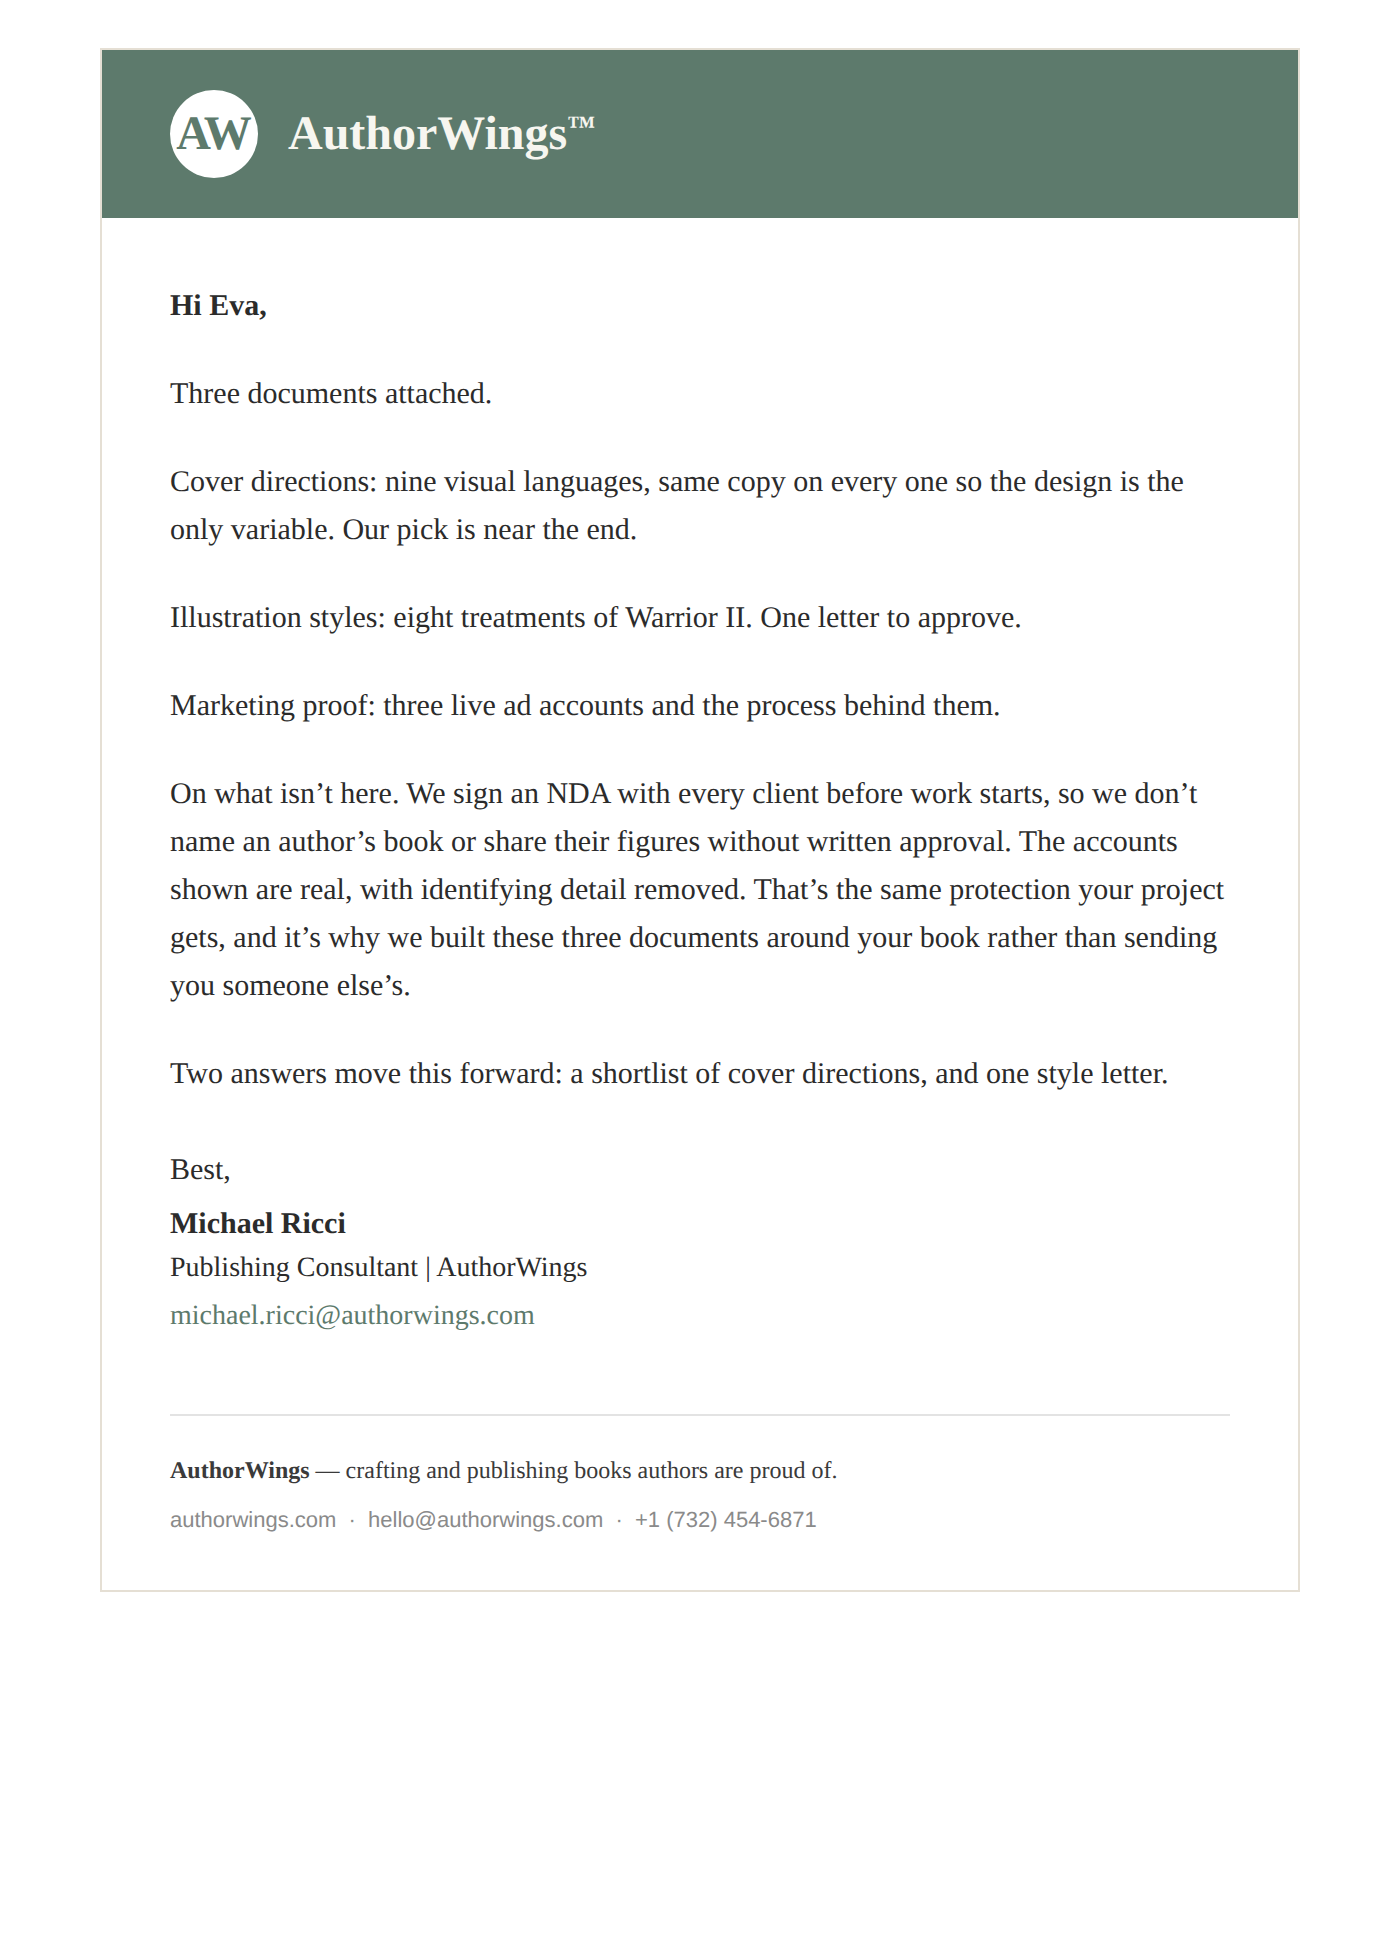
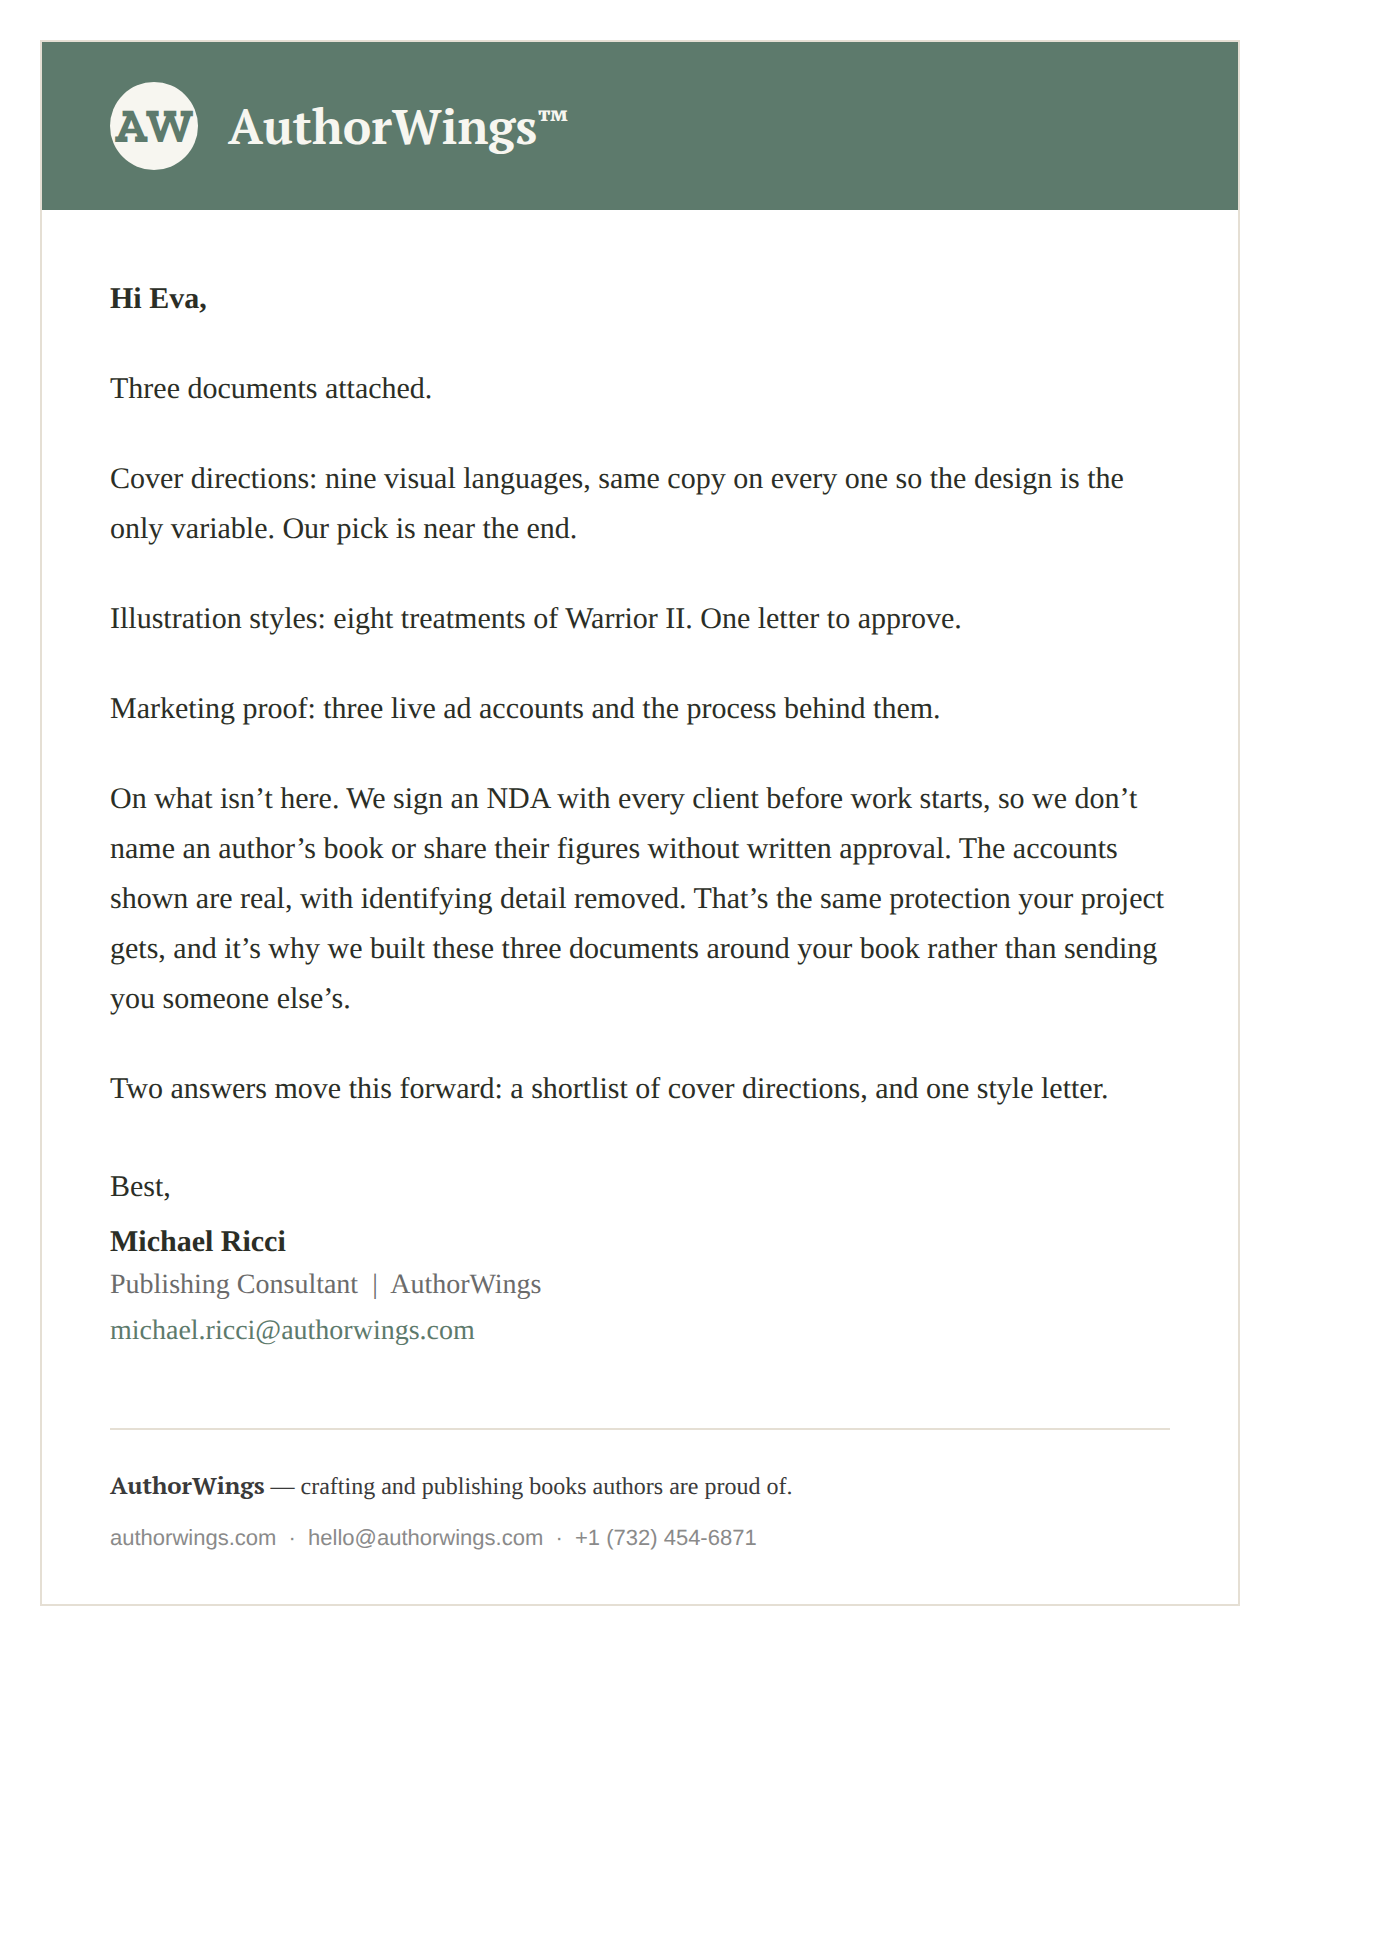
Rebuild the paste-ready block on the templates' header
Takes the header markup from the template set verbatim, so the lockup is
the same in a hand-sent email as in an automated one, and carries the two
subset logo faces in a leading style block that can be dropped without
breaking the layout. Body and footer stay fully inline.

diff --git a/email/authorwings-email-inline.html b/email/authorwings-email-inline.html
@@ -1,111 +1,104 @@
-<!-- Cream page background. Change #FFFFFF in the two places below to restyle it. -->
-<table role="presentation" width="100%" cellpadding="0" cellspacing="0" border="0" bgcolor="#FFFFFF" style="background-color:#FFFFFF; border-collapse:collapse;">
-  <tr>
-    <td align="center" style="padding:24px 12px;">
+<!-- ===========================================================================
+     AuthorWings email - paste-ready block
+     Header markup is identical to the templates in email/templates/.
+     Every visual style is inline, so the layout survives a composer that
+     strips <style>. The block below carries only the two logo faces; drop it
+     and the mark falls back to Rockwell, then Georgia.
+     =========================================================================== -->
+<style type="text/css">
+  /* Zilla Slab Bold and PT Serif Bold, subset to just the logo's letters and
+     embedded here, so the mark renders correctly with no network call. */
+  @font-face {
+    font-family: 'AW Slab';
+    font-style: normal;
+    font-weight: 700;
[1 lines of base64/hex data omitted]
+  }
+  @font-face {
+    font-family: 'AW Serif';
+    font-style: normal;
+    font-weight: 700;
[1 lines of base64/hex data omitted]
+  }
 
-<table role="presentation" width="600" cellpadding="0" cellspacing="0" border="0" style="width:600px; max-width:600px; background-color:#FFFFFF; border:1px solid #E5DFD4; border-collapse:collapse;">
+  /* Every visual style is also inline below, so the email survives clients
+     that strip this block. What lives here is only what cannot be inlined:
+     the logo faces above and the mobile rules underneath. */
+</style>
 
-  <!-- ===================== HEADER ===================== -->
-  <tr>
-    <td align="left" bgcolor="#5D7A6C" style="background-color:#5D7A6C; padding:20px 34px;">
-      <table role="presentation" cellpadding="0" cellspacing="0" border="0" style="border-collapse:collapse;">
-        <tr>
-          <td align="center" valign="middle" width="44" height="44" bgcolor="#FFFFFF"
-              style="width:44px; height:44px; background-color:#FFFFFF;
-                     border-radius:22px; -webkit-border-radius:22px; -moz-border-radius:22px;
-                     text-align:center; vertical-align:middle;
-                     font-family:'Zilla Slab', Rockwell, Georgia, serif;
-                     font-size:24px; font-weight:700; line-height:44px;
-                     color:#5D7A6C; letter-spacing:-0.8px; text-indent:-0.8px;
-                     mso-line-height-rule:exactly;">AW</td>
-          <td width="15" style="width:15px; min-width:15px; font-size:1px; line-height:1px;">&#8203;</td>
-          <td valign="middle" style="vertical-align:middle;">
-            <span style="font-family:'PT Serif', 'Noto Serif', Georgia, 'Times New Roman', serif;
-                         font-size:24px; font-weight:700; line-height:30px; color:#F7F6F0;
-                         mso-line-height-rule:exactly; white-space:nowrap;">AuthorWings<span style="font-size:14px; line-height:1; vertical-align:7px; mso-text-raise:7px;">&trade;</span></span>
-          </td>
-        </tr>
-      </table>
-    </td>
-  </tr>
+<table role="presentation" width="600" cellpadding="0" cellspacing="0" border="0"
+       style="width:600px; max-width:600px; background-color:#FFFFFF; border:1px solid #E5DFD4; border-collapse:collapse;">
 
-  <!-- ====================== BODY ====================== -->
-  <tr>
-    <td align="left" style="padding:32px 34px 8px 34px; font-family:Georgia,'Times New Roman',Times,serif; font-size:15px; line-height:24px; color:#2B2B2B; mso-line-height-rule:exactly;">
+    <!-- HEADER - lockup ratios measured from the AuthorWings logo file -->
+    <tr>
+      <td class="aw-pad" align="left" bgcolor="#5D7A6C" style="background-color:#5D7A6C; padding:20px 34px;">
+        <table role="presentation" cellpadding="0" cellspacing="0" border="0" style="border-collapse:collapse;">
+          <tr>
+            <td class="aw-mark" align="center" valign="middle" width="44" height="44" bgcolor="#F7F6F0"
+                style="width:44px; height:44px; background-color:#F7F6F0;
+                       border-radius:22px; -webkit-border-radius:22px; -moz-border-radius:22px;
+                       text-align:center; vertical-align:middle;
+                       font-family:'AW Slab', 'Zilla Slab', Rockwell, Georgia, serif;
+                       font-size:24px; font-weight:700; line-height:44px;
+                       color:#5D7A6C; letter-spacing:-0.8px; text-indent:-0.8px;
+                       mso-line-height-rule:exactly;">AW</td>
+            <td width="15" style="width:15px; min-width:15px; font-size:1px; line-height:1px;">&#8203;</td>
+            <td class="aw-word" valign="middle" style="vertical-align:middle;">
+              <span style="font-family:'AW Serif', 'PT Serif', Georgia, serif;
+                           font-size:24px; font-weight:700; line-height:30px; color:#F7F6F0;
+                           mso-line-height-rule:exactly; white-space:nowrap;">AuthorWings<span style="font-size:14px; line-height:1; vertical-align:7px; mso-text-raise:7px;">&trade;</span></span>
+            </td>
+          </tr>
+        </table>
+      </td>
+    </tr>
 
-      <p style="margin:0 0 20px 0; font-family:Georgia,'Times New Roman',Times,serif; font-size:15px; line-height:24px; color:#2B2B2B; font-weight:bold;">
-        Hi Eva,
-      </p>
+    <!-- ============================== BODY ============================== -->
+    <tr>
+      <td align="left" style="padding:32px 34px 8px 34px; font-family:Georgia,'Times New Roman',Times,serif; font-size:15px; line-height:25px; color:#2B2E26; mso-line-height-rule:exactly;">
 
-      <p style="margin:0 0 20px 0; font-family:Georgia,'Times New Roman',Times,serif; font-size:15px; line-height:24px; color:#2B2B2B;">
-        Three documents attached.
-      </p>
+        <p style="margin:0 0 20px 0; font-family:Georgia,'Times New Roman',Times,serif; font-size:15px; line-height:25px; color:#2B2E26; font-weight:bold;">Hi Eva,</p>
 
-      <p style="margin:0 0 20px 0; font-family:Georgia,'Times New Roman',Times,serif; font-size:15px; line-height:24px; color:#2B2B2B;">
-        Cover directions: nine visual languages, same copy on every one so the design is the only variable. Our pick is near the end.
-      </p>
+        <p style="margin:0 0 20px 0; font-family:Georgia,'Times New Roman',Times,serif; font-size:15px; line-height:25px; color:#2B2E26; mso-line-height-rule:exactly;">Three documents attached.</p>
+        <p style="margin:0 0 20px 0; font-family:Georgia,'Times New Roman',Times,serif; font-size:15px; line-height:25px; color:#2B2E26; mso-line-height-rule:exactly;">Cover directions: nine visual languages, same copy on every one so the design is the only variable. Our pick is near the end.</p>
+        <p style="margin:0 0 20px 0; font-family:Georgia,'Times New Roman',Times,serif; font-size:15px; line-height:25px; color:#2B2E26; mso-line-height-rule:exactly;">Illustration styles: eight treatments of Warrior II. One letter to approve.</p>
+        <p style="margin:0 0 20px 0; font-family:Georgia,'Times New Roman',Times,serif; font-size:15px; line-height:25px; color:#2B2E26; mso-line-height-rule:exactly;">Marketing proof: three live ad accounts and the process behind them.</p>
+        <p style="margin:0 0 20px 0; font-family:Georgia,'Times New Roman',Times,serif; font-size:15px; line-height:25px; color:#2B2E26; mso-line-height-rule:exactly;">On what isn&rsquo;t here. We sign an NDA with every client before work starts, so we don&rsquo;t name an author&rsquo;s book or share their figures without written approval. The accounts shown are real, with identifying detail removed. That&rsquo;s the same protection your project gets, and it&rsquo;s why we built these three documents around your book rather than sending you someone else&rsquo;s.</p>
+        <p style="margin:0 0 24px 0; font-family:Georgia,'Times New Roman',Times,serif; font-size:15px; line-height:25px; color:#2B2E26; mso-line-height-rule:exactly;">Two answers move this forward: a shortlist of cover directions, and one style letter.</p>
 
-      <p style="margin:0 0 20px 0; font-family:Georgia,'Times New Roman',Times,serif; font-size:15px; line-height:24px; color:#2B2B2B;">
-        Illustration styles: eight treatments of Warrior II. One letter to approve.
-      </p>
+        <p style="margin:0 0 4px 0; font-family:Georgia,'Times New Roman',Times,serif; font-size:15px; line-height:25px; color:#2B2E26;">Best,</p>
+        <p style="margin:0; font-family:Georgia,'Times New Roman',Times,serif; font-size:15px; line-height:22px; color:#2B2E26; font-weight:bold;">Michael Ricci</p>
+        <p style="margin:0 0 2px 0; font-family:Georgia,'Times New Roman',Times,serif; font-size:14px; line-height:21px; color:#6B6B6B;">Publishing Consultant &nbsp;|&nbsp; AuthorWings</p>
+        <p style="margin:0 0 30px 0; font-family:Georgia,'Times New Roman',Times,serif; font-size:14px; line-height:21px;">
+          <a href="mailto:michael.ricci@authorwings.com" style="color:#5D7A6C; text-decoration:none;">michael.ricci@authorwings.com</a>
+        </p>
 
-      <p style="margin:0 0 20px 0; font-family:Georgia,'Times New Roman',Times,serif; font-size:15px; line-height:24px; color:#2B2B2B;">
-        Marketing proof: three live ad accounts and the process behind them.
-      </p>
+      </td>
+    </tr>
 
-      <p style="margin:0 0 20px 0; font-family:Georgia,'Times New Roman',Times,serif; font-size:15px; line-height:24px; color:#2B2B2B;">
-        On what isn&rsquo;t here. We sign an NDA with every client before work starts, so we don&rsquo;t name an author&rsquo;s book or share their figures without written approval. The accounts shown are real, with identifying detail removed. That&rsquo;s the same protection your project gets, and it&rsquo;s why we built these three documents around your book rather than sending you someone else&rsquo;s.
-      </p>
+    <!-- ============================= FOOTER ============================= -->
+    <tr>
+      <td style="padding:0 34px;">
+        <table role="presentation" width="100%" cellpadding="0" cellspacing="0" border="0">
+          <tr><td height="1" style="height:1px; line-height:1px; font-size:1px; background-color:#E5DFD4;">&#8203;</td></tr>
+        </table>
+      </td>
+    </tr>
+    <tr>
+      <td align="left" style="padding:18px 34px 24px 34px;">
+        <p style="margin:0 0 7px 0; font-family:Georgia,'Times New Roman',Times,serif; font-size:12px; line-height:19px; color:#3A3A3A;">
+          <span class="aw-word" style="font-family:'AW Serif', 'PT Serif', Georgia, serif; font-weight:bold;">AuthorWings</span>
+          &mdash; crafting and publishing books authors are proud of.
+        </p>
+        <!-- Arial: Georgia's old-style figures leave a phone number's digits off the baseline. -->
+        <p style="margin:0; font-family:Arial,Helvetica,sans-serif; font-size:11px; line-height:18px; color:#8A8A8A;">
+          <a href="https://authorwings.com/" style="color:#8A8A8A; text-decoration:none;">authorwings.com</a>
+          &nbsp;&middot;&nbsp;
+          <a href="mailto:hello@authorwings.com" style="color:#8A8A8A; text-decoration:none;">hello@authorwings.com</a>
+          &nbsp;&middot;&nbsp;
+          <a href="tel:+17324546871" style="color:#8A8A8A; text-decoration:none;">+1 (732) 454-6871</a>
+        </p>
+      </td>
+    </tr>
 
-      <p style="margin:0 0 24px 0; font-family:Georgia,'Times New Roman',Times,serif; font-size:15px; line-height:24px; color:#2B2B2B;">
-        Two answers move this forward: a shortlist of cover directions, and one style letter.
-      </p>
-
-      <p style="margin:0 0 4px 0; font-family:Georgia,'Times New Roman',Times,serif; font-size:15px; line-height:24px; color:#2B2B2B;">
-        Best,
-      </p>
-      <p style="margin:0; font-family:Georgia,'Times New Roman',Times,serif; font-size:15px; line-height:22px; color:#2B2B2B; font-weight:bold;">
-        Michael Ricci
-      </p>
-      <p style="margin:0 0 2px 0; font-family:Georgia,'Times New Roman',Times,serif; font-size:14px; line-height:22px; color:#2B2B2B;">
-        Publishing Consultant | AuthorWings
-      </p>
-      <p style="margin:0 0 30px 0; font-family:Georgia,'Times New Roman',Times,serif; font-size:14px; line-height:22px;">
-        <a href="mailto:michael.ricci@authorwings.com" style="color:#5D7A6C; text-decoration:none;">michael.ricci@authorwings.com</a>
-      </p>
-
-    </td>
-  </tr>
-
-  <!-- ===================== FOOTER ===================== -->
-  <tr>
-    <td style="padding:0 34px;">
-      <table role="presentation" width="100%" cellpadding="0" cellspacing="0" border="0" style="border-collapse:collapse;">
-        <tr><td height="1" style="height:1px; line-height:1px; font-size:1px; background-color:#E3E3E3;">&#8203;</td></tr>
-      </table>
-    </td>
-  </tr>
-
-  <tr>
-    <td align="left" style="padding:18px 34px 26px 34px; font-family:Georgia,'Times New Roman',Times,serif; font-size:12px; line-height:19px; color:#6B6B6B; mso-line-height-rule:exactly;">
-
-      <p style="margin:0 0 6px 0; font-family:Georgia,'Times New Roman',Times,serif; font-size:12px; line-height:19px; color:#3A3A3A;">
-        <span style="font-family:'PT Serif', Georgia, 'Times New Roman', serif; font-weight:bold;">AuthorWings</span>
-        &mdash; crafting and publishing books authors are proud of.
-      </p>
-
-      <p style="margin:0; font-family:Arial,Helvetica,sans-serif; font-size:11px; line-height:18px; color:#8A8A8A;">
-        <a href="https://authorwings.com/" style="color:#8A8A8A; text-decoration:none;">authorwings.com</a>
-        &nbsp;&middot;&nbsp;
-        <a href="mailto:hello@authorwings.com" style="color:#8A8A8A; text-decoration:none;">hello@authorwings.com</a>
-        &nbsp;&middot;&nbsp;
-        <a href="tel:+17324546871" style="color:#8A8A8A; text-decoration:none;">+1 (732) 454-6871</a>
-      </p>
-
-    </td>
-  </tr>
-
-</table>
-    </td>
-  </tr>
 </table>
